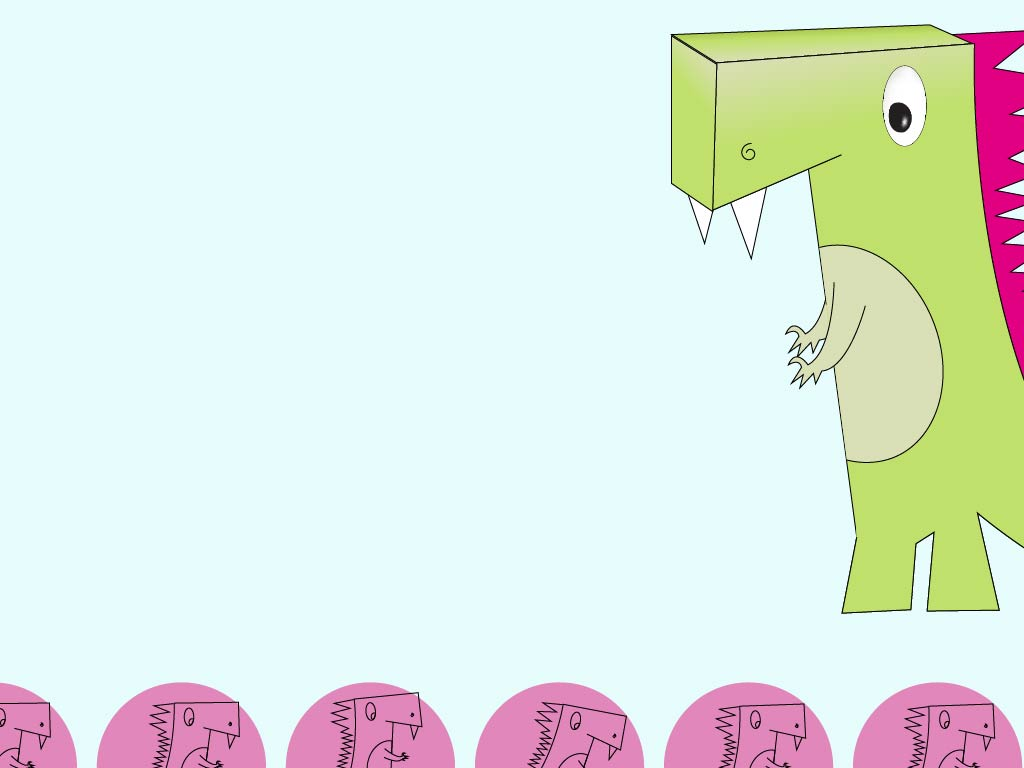
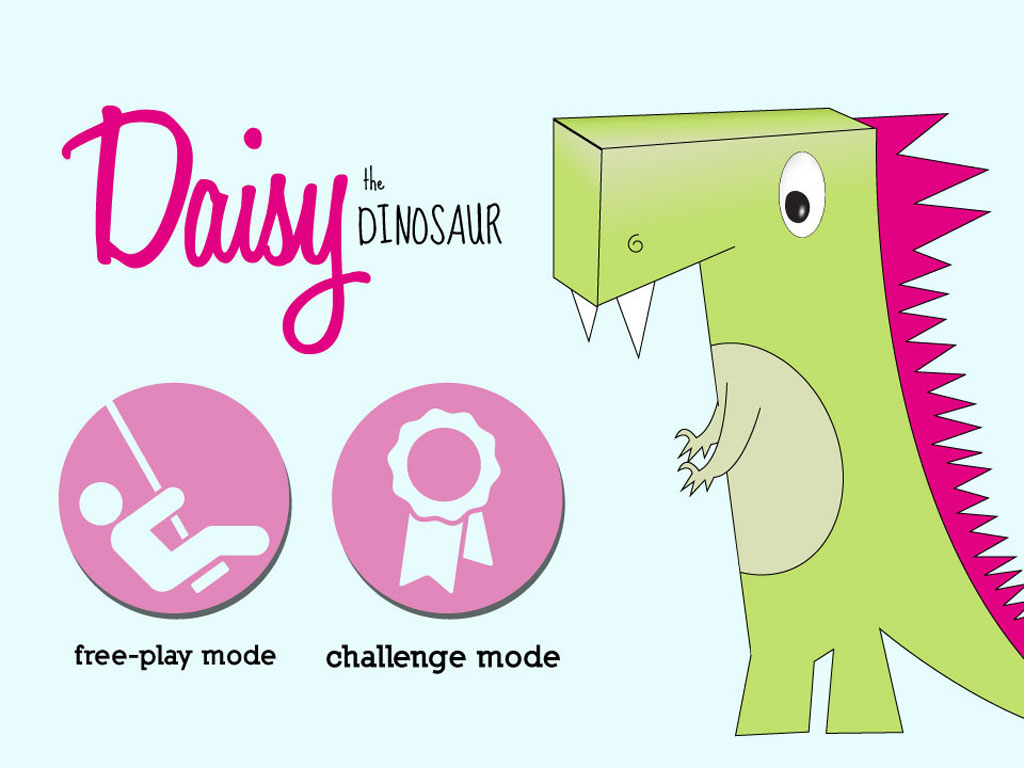
New menu page.

diff --git a/static/menu.css b/static/menu.css
@@ -9,17 +9,16 @@ a {
   display: block;
   float: left;
   text-indent: -9999px;
-  margin-top: 261px;
-  margin-left: 20px;
+  margin-top: 380px;
 }
 a#freeplay {
-  background: transparent url("images/menu-freeplay.jpg") 0 0 no-repeat;
-  width: 352px;
-  height: 284px;
+  width: 238px;
+  height: 290px;
+  margin-left: 56px;
 }
 a#challenge {
-  background: transparent url("images/menu-challenge.jpg") 0 0 no-repeat;
-  width: 377px;
-  height: 284px;
+  width: 240px;
+  height: 293px;
+  margin-left: 32px;
 }
 
